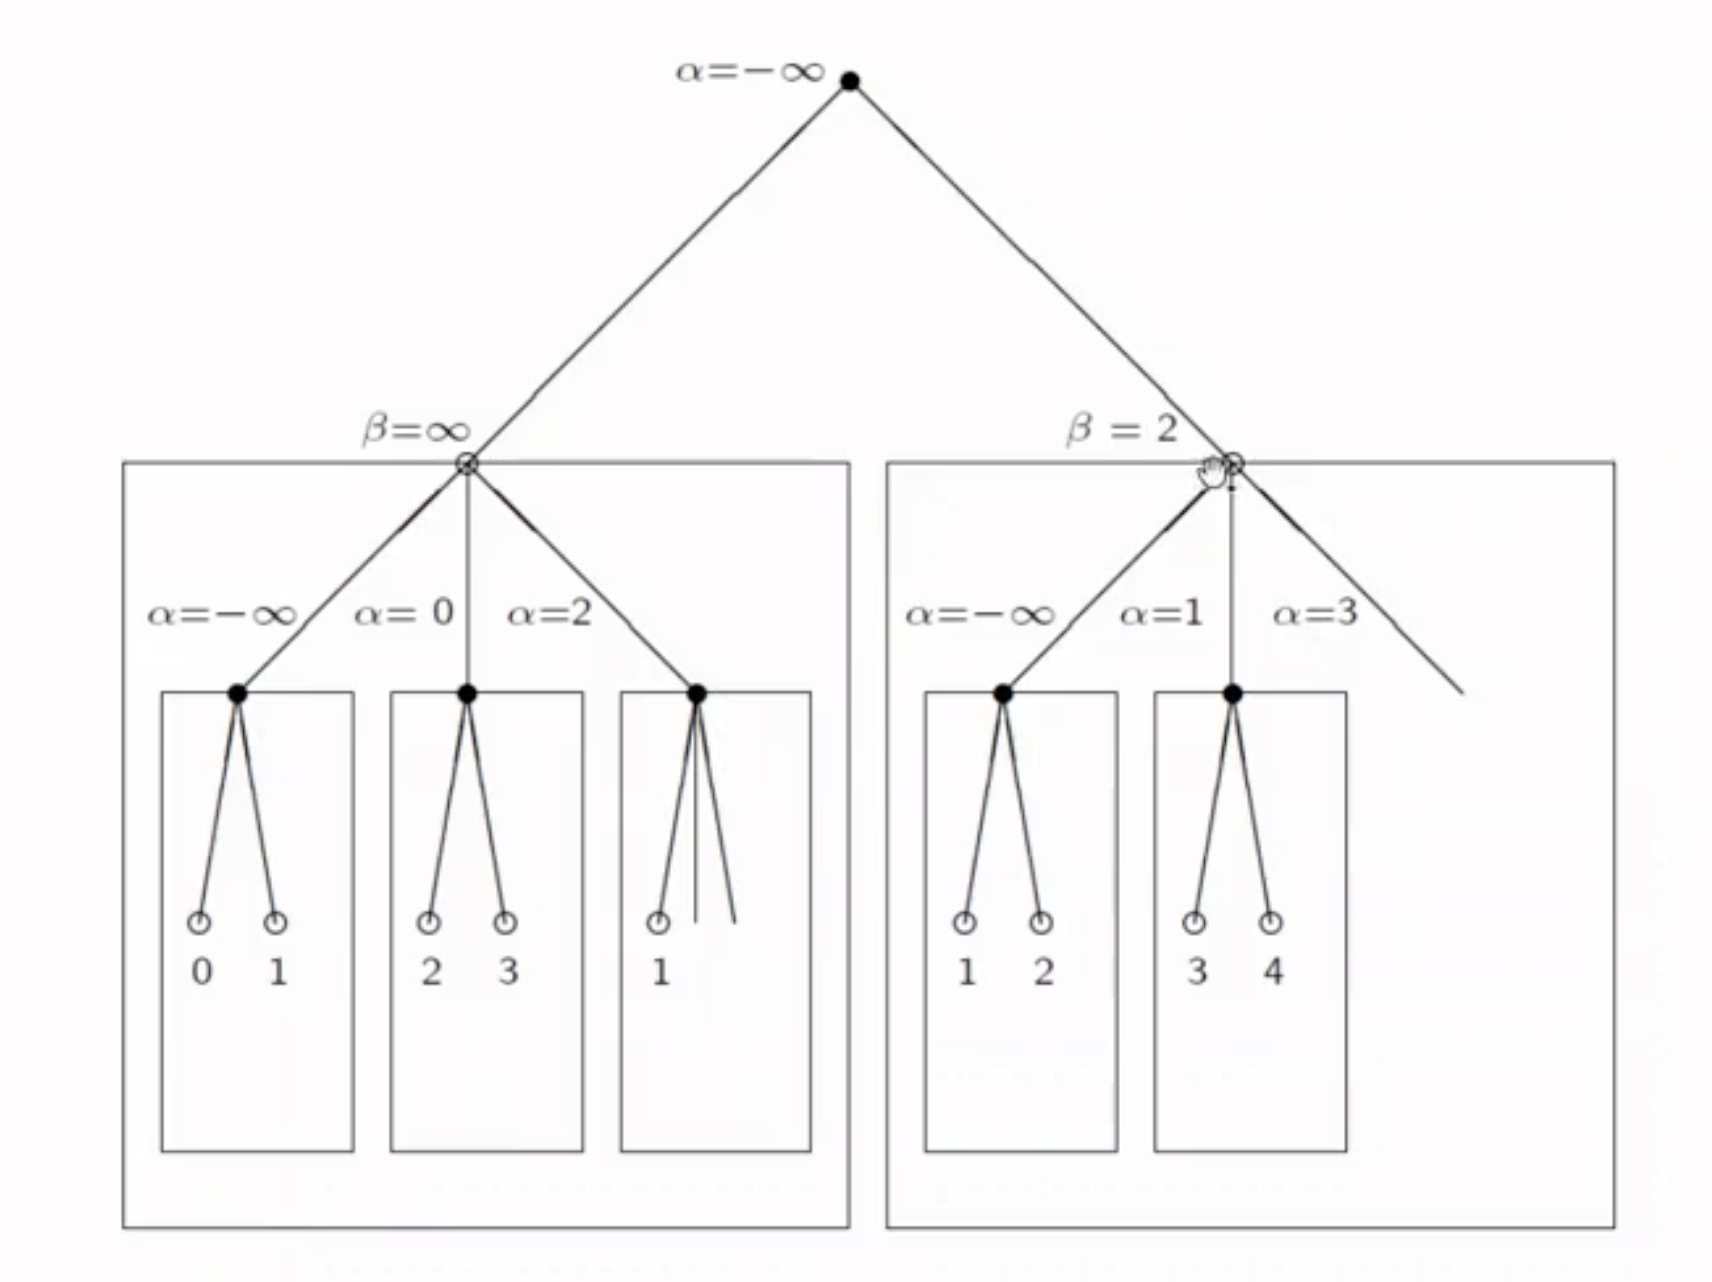
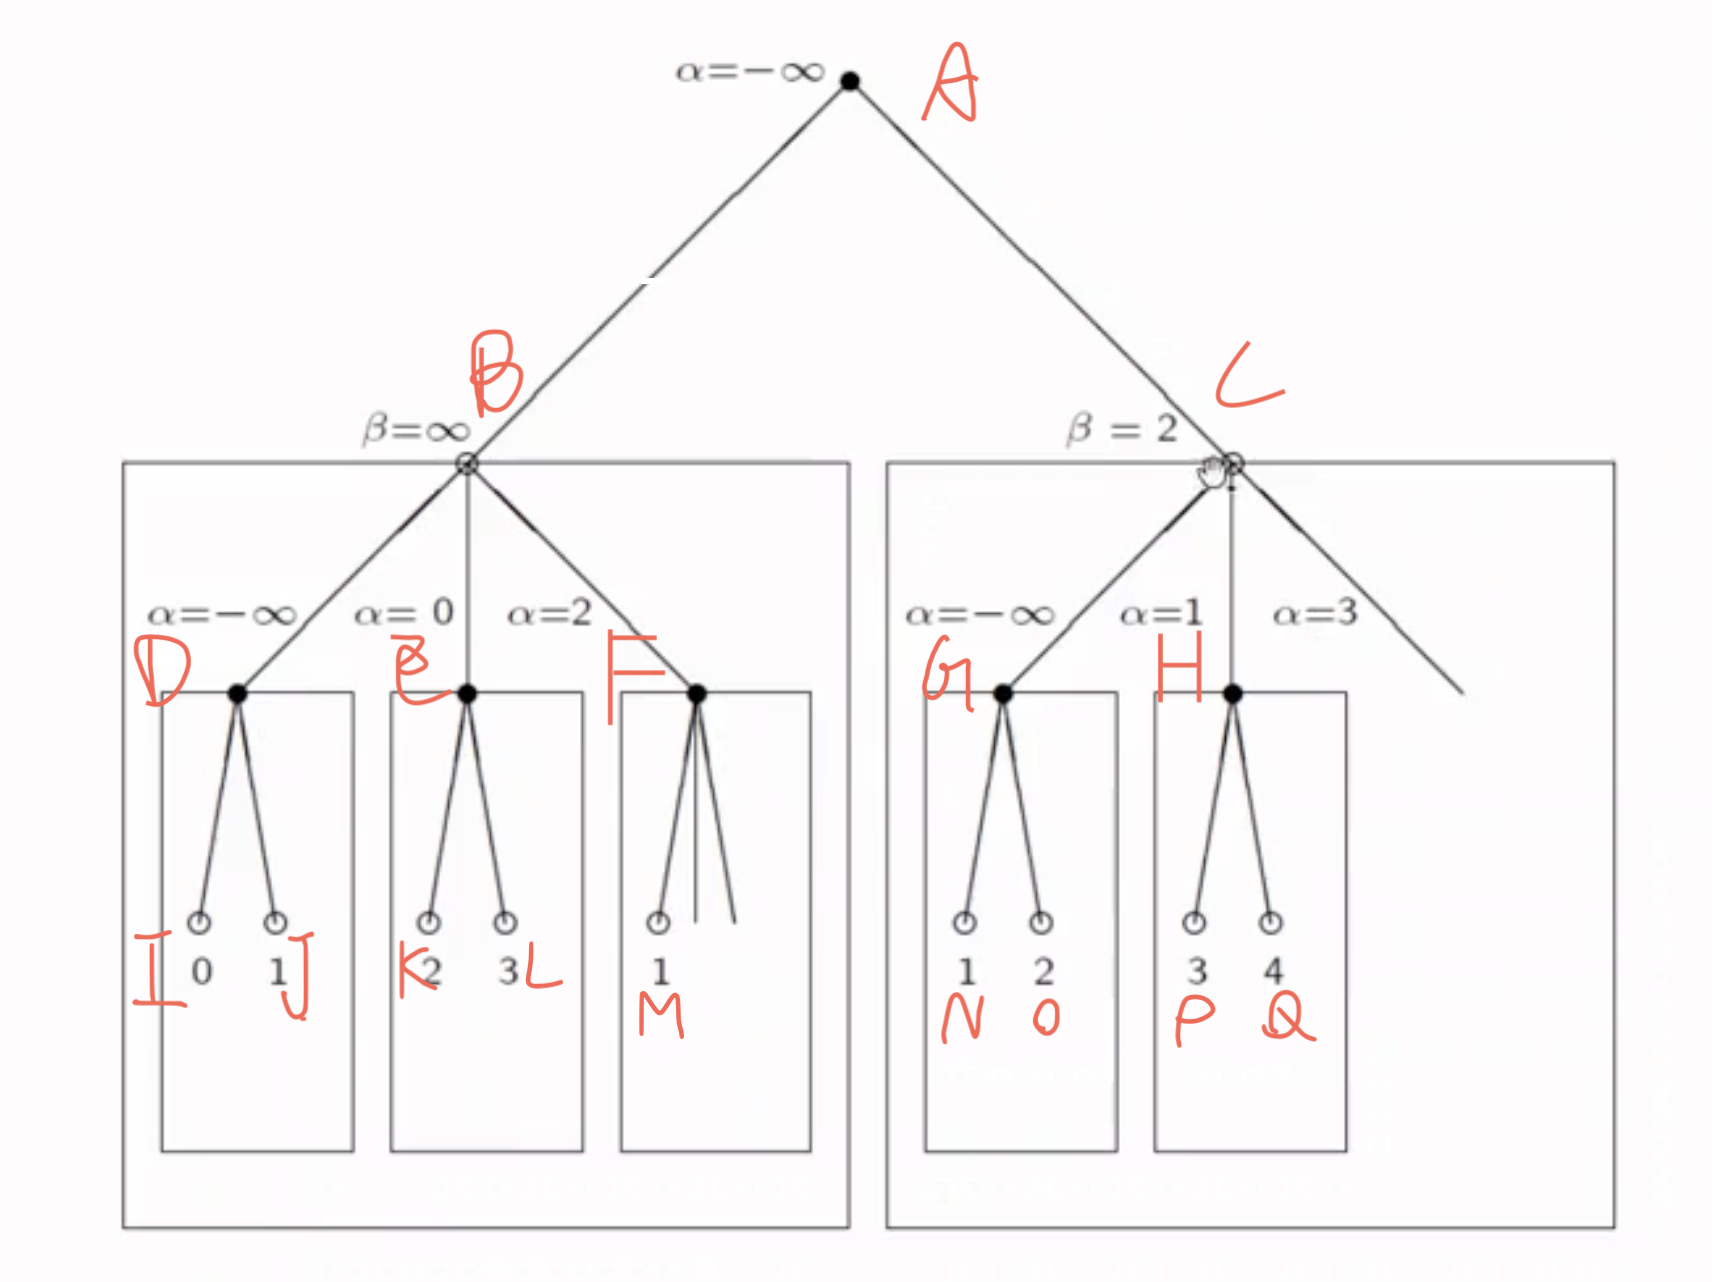
chore: update minimax-abPruning explainations

diff --git a/_posts/2021-11-05-COMP24011 Ch1.md b/_posts/2021-11-05-COMP24011 Ch1.md
@@ -98,7 +98,7 @@ def miniMaxValidationwABPruning(Node, Depth, alpha, beta):
     else
         beta = POSITIVE.INFINITY
         for each Daughter in Node.daughters():
-            alpha = min(alpha, miniMaxValidation(Daughter, Depth-1, alpha, beta))
+            beta = min(alpha, miniMaxValidation(Daughter, Depth-1, alpha, beta))
             if alpha >= beta:
                 break
         return beta
@@ -113,4 +113,35 @@ def miniMaxValidationwABPruning(Node, Depth, alpha, beta):
 同样的, 在任何情形下一个有价值的解中都不可能出现 `alpha >= beta` 的情况. 因此, 该情形若出现, 我们就可以终止搜索, 执行剪枝.
 
 得益于剪枝, `Alpha-Beta` 算法 (一般) 能够更快地给出假设下的最优解. 
+
+上面的解释可能艰深晦涩, 难以理解. 我们下面来看一个例子, 希望能够对各位有所启发 (此处强烈感谢王老师):
+
+![20220121182159](https://cdn.jsdelivr.net/gh/KirisameR/KirisameR.github.io/img/blogpost_images/20220121182159.png)
+
+我们考虑课上的Slides提到的例子, 逐步解释 `Alpha-Beta  Pruning` 是如何用于解决该题, 并且执行剪枝的:
+
+`Alpha-beta Pruning` 执行的搜索是 **自顶向下递归**, **深度优先** 的. 首先可看出第 $1, 3$ 层为 `Minimizing Node`, 第 $2, 4$ 层为 `Maximizing Node`.
+
+在图中的 **每个节点** 上, 都会相应地维护 **它们自己的** $\alpha, \beta$. 其中, $\alpha$ 表示利益下界, 如果不从父节点继承的话初始化为 $-\infty$, 而表示利益上界的 $\beta$ 节点值若不从父节点继承的话被初始化为 $\infty$.
+
+
+我们的搜索从根节点 $A$ 开始. 由于根节点是 `Minimizing Node`, 它的目的是维护 $\beta$ (取得该节点上判断的 $\beta$ 的最小值, 因此该节点的 $\beta$ 需要被初始化为 $\infty$. 又因为它没有父节点, 因此对它来说, 有: $\alpha = -\infty$. 
+
+从根节点 $A$ 向下遍历它的第一个子节点 $B$. 由于 $B$ 是 `Maximizing Node`, 它的目的是维护 $\alpha$ (取得该节点上判断的 $\alpha$ 的最大值, 因此该节点的 $\alpha$ 需要被初始化为 $-\infty$. 而该节点的 $\beta$ 从父节点继承, 因此对它来说, 有: $\beta = \infty$. 
+
+基于深度优先搜索思想, 我们再遍历 $B$ 的第一个子节点 $D$. 由于 $D$ 是 `Minimizing Node`, 它的目的是维护 $\beta$ (取得该节点上判断的 $\beta$ 的最小值, 因此该节点的 $\beta$ 需要被初始化为 $\infty$, 而 $\alpha$ 从 $B$ 继承, 值为 $-\infty$.
+
+$B$ 更新 $\beta$ 的方式是: 基于深度优先思想遍历其子节点, 选取子节点评分里最小的那一个作为 $\beta$ 的值. 显然我们第一个遍历到的子节点是 $I$. $I$ 是 `Maximizing Node`, 它的目的是维护 $\alpha$ (取得该节点上判断的 $\alpha$ 的最大值, 因此该节点的 $\alpha$ 需要被初始化为 $-\infty$. 而该节点的 $\beta$ 从父节点继承, 因此对它来说, 有: $\beta = \infty$. 由于自身评分为 $0$, 它自己的 $\alpha$ 被更新为 $0$. 由于自身已经是叶子节点, 因此达到最高递归深度, 开始回溯.
+
+在回溯时, 将 $I$ 的 $\alpha$ 的值作为该节点的评分. 由此可知在将 $I$ 和 $D$ 的 $\beta$ 值比对时, $0 < \infty$, $D$ 的 $\beta$ 值暂时被更新为较小的 $0$. 回溯到 $D$ 节点后继续遍历另一分支 $J$, 由于 $J$ 的评分为 $1$, 因此 $D$ 的 $\beta$ 值保持为 $0$.
+
+至此 $D$ 这一支子树已经遍历完成, 继续回溯到 $B$. 将 $D$ 和 $B$ 做比较, 由于 $D$ 是 `Minimizing Node`, 取它的 $\beta$ 值作为它的评分. 因此可知 $B$ 的 $\alpha$ 值暂时被更新为 $0$.
+
+继续遍历另一分支 $E$, 不难看出在遍历完该分支后, $B$ 的 $\alpha$ 值被更新为 $3$. 
+
+此时再从 $B$ 开始遍历 $F$. 由于此时 $B$ 节点的 $\alpha = 2, \beta = \infty$,  $M$ 的评分为 $1$, 因此得出 $F$ 有 $\alpha=2, \beta=1$, 显然违背了 $\alpha < \beta$ 的条件. 因此分支 $F$ 是一个非法分支, 需要从 $M$ 处开始剪枝, 搜索到此为止.
+
+至此以 $B$ 为根节点的子树已经全部搜索完毕, 下面需要将 $B$ 的评分 $2$ (因为 $\alpha=2$) 回传到根节点 $A$ 处用于更新根节点的 $\beta$ 的值. 
+
+基于更新规则可知根节点的 $\beta$ 被更新为 $2$. 然后, 我们带着更新后的 $\beta$ 遍历到 $C$, 此时 $C$ 满足 $\alpha=-\infty, \beta=2$. 同样地对 $C$ 的子节点执行深度优先搜索并使用同样的方法判断每个子节点的评分并回传给父节点更新父节点的 $\alpha$ 或 $\beta$ 值, 在遍历完节点 $H$ 后可得 $C$ 此时满足 $\alpha=3, \beta=2$. 由于此时再度违背了 $\alpha < \beta$ 的条件, 因此从此开始我们从节点 $C$ 的第二棵子树 $H$ 处开始剪枝, 不再搜索剩下的子树.
 

diff --git a/_posts/2021-11-06-COMP24011 Ch2.md b/_posts/2021-11-06-COMP24011 Ch2.md
@@ -231,6 +231,8 @@ function AC3(CSP (X, D, C)) {
 >
 > 若 $\mathcal{N}$ 对于任何 $j \leqslant k$  均为有向 $j-$相容的, 则称其为 **强有向 $k-$相容**.
 
+### 2.3 利用强有向 $k-$相容求解约束满足问题
+
 **定义 2.2.5** (约束图)
 > 考虑约束问题 $\mathcal{N} = \langle \bar{x}, \bar{D}, C\rangle$, 其约束 $C$ 包含的变量记为 $\{x_1, \cdots, x_n\}$, 考虑如下的无向图:
 > 
@@ -247,7 +249,7 @@ function AC3(CSP (X, D, C)) {
 我们同时引入 **有向约束图的宽度** 的概念: 
 
 **定义 2.2.6** (有向约束图的宽度)
-> 记有向约束图中 **所有节点的父节点数** 的 **最大值** 为有向约束图的宽度.
+> 记有向约束图中 **所有节点的父节点数** 中的 **最大值** 为有向约束图的宽度.
 
 显然, 若给定有向约束图的宽度为 $1$, 则该图退化为树. 
 
@@ -266,7 +268,6 @@ function AC3(CSP (X, D, C)) {
 **定义 2.2.7** (无向约束图的宽度)
 > 与有向约束图不同, 无向约束图的宽度为 **所有节点的父节点数** 的 **最小值**.
 
-显然, 任何无向约束图的宽度必为 $1$. 
 
 **定义 2.2.8** (环切集)
 > 称某个无向图中全体满足下列性质的边组成的集合为 **环切集**:<br>
@@ -282,6 +283,19 @@ function AC3(CSP (X, D, C)) {
 因此, 若我们优先尝试检查环切集中涉及的变量能否与约束条件相容, 在能够找到一组赋值使环切集中所有的边 (也就是某些约束条件) 都能够相容的情况下, 剩余的约束图就是原约束图删去环切集中所有边所得到的无向图. 
 
 结合 `定理 2.2.1`, 我们可知对于任何 **无圈的** 约束图而言, 若它为 **弧相容** 的 (也就是 $2-$相容), 则该图必为全局相容的, 由此这样的图是无回溯的. 由此我们就得到了一个无回溯的约束图. $\blacksquare$
+
+### 2.4 利用树分解求解约束满足问题
+
+我们还可以利用树分解求解约束问题:
+
+**定义 2.4.1** (树分解的树宽)
+> 称 **树分解的树宽** 为给定树分解中节点 (也就是包, `Bag`) 中包含原约束图节点个数的最大值 $-1$.
+
+需要注意: (`Lecture 3, -19:51`)
+
+ 某个图 $G$ (在本章中我们当然只考虑约束满足问题的约束图) 的树分解的树宽 **是被该图本身的树宽所限制的**:
+
+若图 $G$ 的树宽为 $K$, 则该图的树分解的树宽最少为 $K$.
 
 
 <br>
@@ -401,4 +415,4 @@ $$\text{O}(d^n).$$
 
 1. $\bigcup_{i \in [n]} x_i = V$
 2. 对图中的每个边 $(v,w)$, 必存在某个同时包含这两个顶点 $v, w$ 的边子集 $X_i$.
-3. 若不同的边子集 (包) $X_i, X_j$ 同时包含顶点 $v$, 则在 $X_i, X_j$ 所表示的树的顶点之间的路径上, 所经由的所有节点都必须包含这个顶点 $v$. 
+3. 所有 **包含原图中节点 $v$** 的 **树中顶点** 都是连通的.

diff --git a/_posts/2021-11-04-COMP24011 Ch0.md b/_posts/2021-11-04-COMP24011 Ch0.md
@@ -203,7 +203,7 @@ $$K(\nu) := C(\nu) + U(\nu)$$
 
 在实际的分支定界算法中, 为了提高算法效率我们还会对搜索树进行剪枝. 
 
-分支定界算法始终围绕状态树进行. 将原问题视为根节点并从从这里出发, 分支的含义就是将大的问题分割成小的问题. 大问题可以看成是搜索树的父节点, 故从大问题分割出来的小问题就是子节点, 分支就是不断增加子节点的过程. 
+分支定界算法始终围绕状态树进行. 将原问题视为根节点并从这里出发, 搜索行为类似于深度优先搜索. 分支的含义就是将大的问题分割成小的问题. 大问题可以看成是搜索树的父节点, 故从大问题分割出来的小问题就是子节点, 分支就是不断增加子节点的过程.
 
 定界指在分支的过程中检查子问题的成本上下界. 若子问题不能产生更优解, 则对这一支执行剪枝. 直到所有子问题都不能产生一个更优的解时, 算法结束.
 
@@ -218,7 +218,7 @@ CurrentBest = none      # 初始化当前最优解
 bnb(Queue, BestCost):
     if Queue is non-empty:
         # 逐个检查序列中的所有节点
-        FirstNode := Queue.pop()
+        FirstNode := Queue.pop()    
         
         # 只考虑成本上界低于当前最低代价的节点
         if K(FirstNode) < BestCost:
